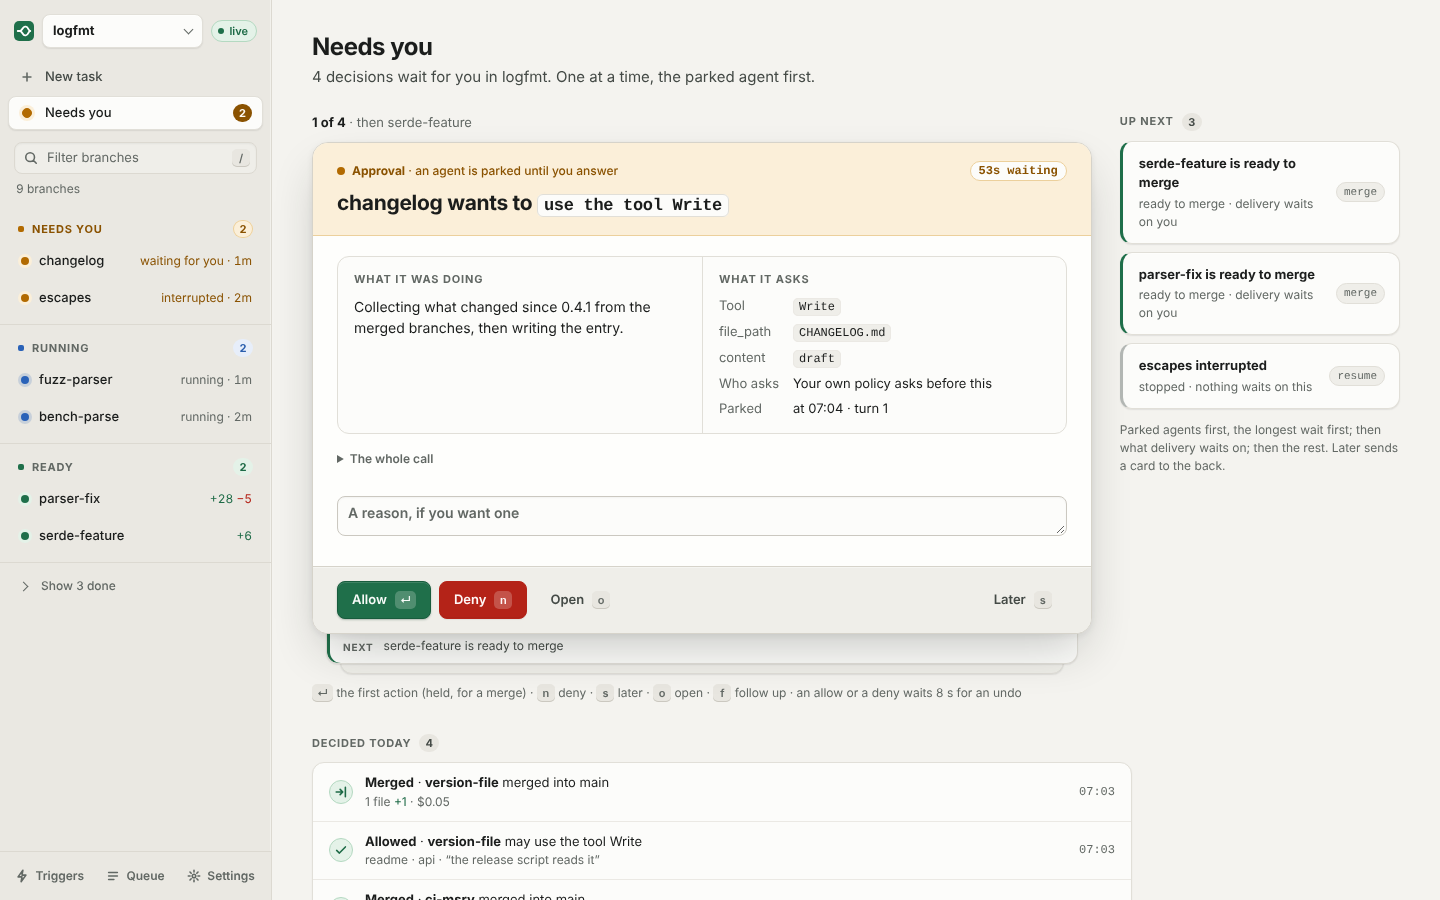
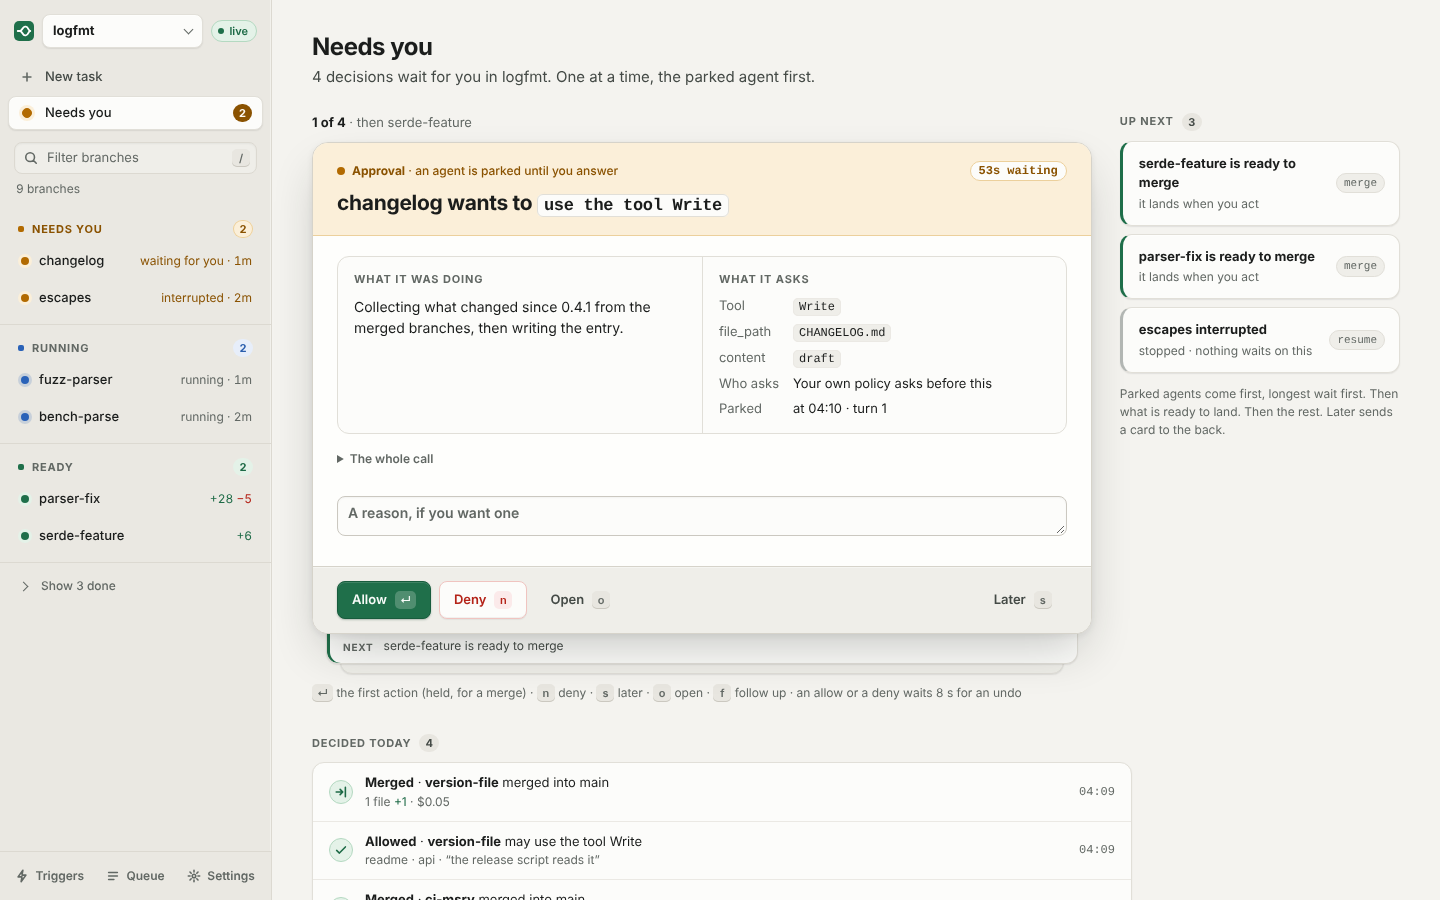
Polish the console's costs, deny button and decision copy
- A cost shows to the cent: $0.42, not $0.4200. A cost under a cent keeps
  four places.
- Deny is a quiet button with red text. Allow stays the one filled button.
- An Up next card for a ready branch no longer repeats "ready to merge"
  under its title. "Delivery waits on you" reads "it lands when you act".
- An earlier output reads "turn N · a later turn replaced it".
- The Spent tile's number matches the other tiles.

The companion, guided and workspace browser tests pass with the new strings,
and the README screenshots are regenerated with tools/readme_screenshots.

Claude-Session: https://claude.ai/code/session_013pzuDMdsgsaFc5nY3K5dKd

diff --git a/crates/branchyard-server/src/companion/assets/app.js b/crates/branchyard-server/src/companion/assets/app.js
@@ -454,8 +454,11 @@
   const workspaceLane = (w) => WORKSPACE_LANES.find((lane) => !lane.states || lane.states.includes(w.state));
   const workspaceStateText = (w) => ({ pending: 'starting' }[w.state] || w.state);
 
+  // Dollars to the cent; a cost under a cent keeps the digits that show it.
   function money(v) {
-    return v == null ? '—' : `$${Number(v).toFixed(v < 1 ? 4 : 2)}`;
+    if (v == null) return '—';
+    const n = Number(v);
+    return `$${n.toFixed(n > 0 && n < 0.01 ? 4 : 2)}`;
   }
   // Dollars to the cent, for a column of them.
   const cents = (v) => (v == null ? '—' : v > 0 && v < 0.005 ? '<$0.01' : `$${Number(v).toFixed(2)}`);
@@ -3680,7 +3683,7 @@
     accepted: { pick: false, tag: 'Accepted', note: (a) => `turn ${a.turn}` },
     current: { pick: true, tag: 'Current', note: (a) => `turn ${a.turn}` },
     working: { pick: false, note: (a) => `turn ${a.turn} · a newer turn is running` },
-    earlier: { pick: false, note: (a) => `Earlier turn ${a.turn} — not the current result` },
+    earlier: { pick: false, note: (a) => `turn ${a.turn} · a later turn replaced it` },
     unsettled: { pick: false, note: (a) => `turn ${a.turn} · this turn ended without its result` },
   };
 
@@ -4362,7 +4365,7 @@
       h('div', { class: 'row' },
         m.kind === 'escalation'
           ? [h('button', { type: 'button', class: 'primary', disabled, text: 'Approve', onclick: () => send('Approved.') }),
-            h('button', { type: 'button', class: 'danger', disabled, text: 'Deny', onclick: () => send('Denied.') })]
+            h('button', { type: 'button', class: 'deny', disabled, text: 'Deny', onclick: () => send('Denied.') })]
           : h('button', { type: 'button', class: 'primary', disabled, text: 'Answer', onclick: () => send(null) })),
       disabled ? h('p', { class: 'hint', text: 'This token lacks the run scope.' }) : null);
   }
@@ -4392,7 +4395,7 @@
       h('label', { class: 'block', for: id, text: 'Reason' }), area,
       h('div', { class: 'row' },
         h('button', { type: 'button', class: 'primary', disabled, text: 'Allow', onclick: () => send(true) }),
-        h('button', { type: 'button', class: 'danger', disabled, text: 'Deny', onclick: () => send(false) })),
+        h('button', { type: 'button', class: 'deny', disabled, text: 'Deny', onclick: () => send(false) })),
       disabled ? h('p', { class: 'hint', text: 'This token lacks the run scope.' }) : null);
   }
 
@@ -4413,7 +4416,7 @@
   const UNDO_MS = 8000;
   const HOLD_MS = 700;
   const decisionKey = (d) => `${d.kind}:${d.branch}:${d.approval ? d.approval.id : d.question ? d.question.id : d.output ? d.output.id : ''}`;
-  const WAITS = { agent: 'an agent is parked until you answer', delivery: 'delivery waits on you', nobody: 'nothing waits on this' };
+  const WAITS = { agent: 'an agent is parked until you answer', delivery: 'it lands when you act', nobody: 'nothing waits on this' };
   const KIND_LABEL = { approval: 'Approval', question: 'Question', merge: 'Ready to merge', stop: 'Stopped', stall: 'Silent', output: 'Delivered', session: 'Stopped' };
   const KIND_VERB = { approval: 'allow or deny', question: 'answer', merge: 'merge', stop: 'resume', stall: 'look', output: 'accept', session: 'open' };
   // Who a card is about: a branch, or a workspace's session.
@@ -4668,7 +4671,7 @@
       primary = () => holdAnswer(d, true, reason.value.trim());
       actions = [
         h('button', { type: 'button', class: 'primary', disabled, text: 'Allow', onclick: primary }, h('kbd', { text: '↵' })),
-        h('button', { type: 'button', class: 'danger', disabled, text: 'Deny', onclick: () => holdAnswer(d, false, reason.value.trim()) }, h('kbd', { text: 'n' })),
+        h('button', { type: 'button', class: 'deny', disabled, text: 'Deny', onclick: () => holdAnswer(d, false, reason.value.trim()) }, h('kbd', { text: 'n' })),
       ];
     } else if (d.kind === 'question') {
       const m = d.question;
@@ -4799,12 +4802,12 @@
       onclick: () => { state.deck.front = decisionKey(d); state.deck.later = state.deck.later.filter((k) => k !== decisionKey(d)); branchesChanged(); focusDeck(); },
     }, h('span', { class: 'bay-main' },
       h('b', { text: summaryOf(d) }),
-      h('span', { class: 'bay-meta', text: `${KIND_LABEL[d.kind].toLowerCase()} · ${d.since_ms ? (d.kind === 'output' ? `delivered ${since_(d.since_ms)} ago` : `parked ${since_(d.since_ms)}`) : WAITS[d.waits]}` })),
+      h('span', { class: 'bay-meta', text: `${d.kind === 'merge' ? '' : `${KIND_LABEL[d.kind].toLowerCase()} · `}${d.since_ms ? (d.kind === 'output' ? `delivered ${since_(d.since_ms)} ago` : `parked ${since_(d.since_ms)}`) : WAITS[d.waits]}` })),
     h('span', { class: 'bay-verb mono', text: KIND_VERB[d.kind] })));
     return h('aside', { class: 'deck-bay', 'aria-label': 'Up next' },
       held.length || next.length ? h('p', { class: 'deck-label bay-title' }, h('span', { text: 'Up next' }), next.length ? h('span', { class: 'lane-count', text: String(next.length) }) : null) : null,
       held, next,
-      next.length ? h('p', { class: 'bay-why muted', text: 'Parked agents first, the longest wait first; then what delivery waits on; then the rest. Later sends a card to the back.' }) : null);
+      next.length ? h('p', { class: 'bay-why muted', text: 'Parked agents come first, longest wait first. Then what is ready to land. Then the rest. Later sends a card to the back.' }) : null);
   }
 
   // What was decided today, newest first: approvals answered (here, in a

diff --git a/crates/branchyard-server/src/companion/assets/app.css b/crates/branchyard-server/src/companion/assets/app.css
@@ -221,6 +221,10 @@ button.primary, .button.primary { background: var(--green); border-color: var(--
 button.primary:hover, .button.primary:hover { background: var(--green-hover); border-color: var(--green-active); }
 button.primary:active, .button.primary:active { background: var(--green-active); }
 button.danger { background: var(--red); border-color: var(--red); color: var(--on-red); }
+/* Deny is a real answer, not the expected one: red words on a quiet button,
+   so the one filled button on a card is the action it suggests. */
+button.deny { color: var(--red); border-color: var(--red-line); }
+button.deny:hover:not(:disabled) { background: var(--red-tint); border-color: var(--red); color: var(--red); }
 button.ghost { background: transparent; border-color: transparent; color: var(--ink-2); box-shadow: none; }
 button.ghost:hover { background: var(--wash-2); border-color: transparent; }
 button:disabled, button:disabled:hover { opacity: .55; cursor: not-allowed; transform: none; box-shadow: none; }
@@ -1080,6 +1084,7 @@ details.request summary { color: var(--ink-3); font-size: 12px; font-weight: 600
 .deck-actions button kbd, .lever kbd { margin-left: 2px; }
 .deck-actions .primary kbd, .lever kbd { color: var(--on-green); background: rgba(255, 255, 252, .22); box-shadow: none; }
 .deck-actions .danger kbd { color: var(--on-red); background: rgba(255, 255, 252, .22); box-shadow: none; }
+.deck-actions .deny kbd { color: var(--red); background: var(--red-tint); box-shadow: none; }
 .deck-keys { font-size: 12px; }
 .lever { position: relative; overflow: hidden; min-width: 132px; }
 .lever::before { content: ""; position: absolute; inset: 0; background: var(--green-active); transform: scaleX(0); transform-origin: left; }
@@ -1178,7 +1183,7 @@ details.more details.ledger > summary { margin-top: 14px; }
 .tile-needs .tile-value { color: var(--amber-text); }
 .tile-running .tile-body { background: linear-gradient(var(--blue), var(--blue)) top / 100% 2px no-repeat, var(--surface-raised); }
 .tile-ready .tile-body { background: linear-gradient(var(--green), var(--green)) top / 100% 2px no-repeat, var(--surface-raised); }
-.tile-cost .tile-value { font-family: var(--mono); font-size: 24px; letter-spacing: -.02em; }
+
 .dot-cost { background: var(--ink-3); }
 .board {
   display: flex; flex-direction: column; background: var(--surface-raised); border: 1px solid var(--border-raised);

diff --git a/crates/branchyard-server/tests/console_workspace_browser.js b/crates/branchyard-server/tests/console_workspace_browser.js
@@ -788,7 +788,7 @@ let browser = null;
   await outputs.nth(9).waitFor(TURN);
   const earlier = byId(artifact[DOCX]);
   await page.waitForFunction((id) => document.querySelector(`#outputs-list li[data-artifact="${id}"]`).dataset.standing === 'earlier', artifact[DOCX]);
-  if (!(await earlier.locator('.item-meta').innerText()).endsWith('Earlier turn 1 — not the current result')) throw new Error(`the earlier DOCX says ${await earlier.locator('.item-meta').innerText()}`);
+  if (!(await earlier.locator('.item-meta').innerText()).endsWith('turn 1 · a later turn replaced it')) throw new Error(`the earlier DOCX says ${await earlier.locator('.item-meta').innerText()}`);
   const earlierBox = earlier.getByRole('checkbox');
   if (!(await earlierBox.isDisabled()) || await earlierBox.isChecked()) throw new Error('an earlier turn\'s output can still be selected');
   if (await strip.locator('#accept').count()) throw new Error('Accept is still offered for an earlier turn\'s output');

diff --git a/crates/branchyard-server/tests/companion_browser.js b/crates/branchyard-server/tests/companion_browser.js
@@ -258,10 +258,10 @@ const shots = process.env.BY_SCREENSHOTS;
   await nextLine();
   await go('#/b/app/costly');
   const receipts = page.locator('#convo .turn .outcome');
-  await receipts.filter({ hasText: '$0.2500' }).waitFor({ timeout: 60000 });
-  await receipts.filter({ hasText: '$0.5000' }).waitFor({ timeout: 60000 });
-  if (await receipts.filter({ hasText: '$0.7500' }).count()) throw new Error('a receipt shows the session total, not its turn');
-  await page.locator('.strip-meta', { hasText: '$0.7500' }).waitFor();
+  await receipts.filter({ hasText: '$0.25' }).waitFor({ timeout: 60000 });
+  await receipts.filter({ hasText: '$0.50' }).waitFor({ timeout: 60000 });
+  if (await receipts.filter({ hasText: '$0.75' }).count()) throw new Error('a receipt shows the session total, not its turn');
+  await page.locator('.strip-meta', { hasText: '$0.75' }).waitFor();
   say('COSTED');
 
   // A turn parked on an approval: the branch itself says so on the board

diff --git a/docs/companion.md b/docs/companion.md
@@ -157,7 +157,7 @@ A workspace uses the same three panes as a branch:
 - **Environments and readiness.** The environments are exactly the server's list, `GET /v1/execution-presets?workspace=` ([execution presets](server.md#execution-presets)). On a server with no presets configured, the one environment is "This server", and a start there sends no `preset`, as before, so coding projects start sessions unchanged. On a server that requires presets, every start names one. Each readiness row gives the state in words (Ready, Not ready or Unknown), where it was measured ("checked on this server", which may not be the worker that runs the session, or "in the environment itself"), how long ago, the server's reason and, when there is one, what an operator can do. The dot repeats the state in colour. An environment has a row for itself and, for Substrate, one for reachability. The chosen harness has rows for its executable, its sign-in, and whether the environment supplies its key. Readiness disables nothing: a Substrate environment whose bridge key this server cannot read still starts a session, because the worker that runs it may hold its own copy of the key. Without one, the session fails and shows why.
 - **The conversation** shows the session's messages (`…/messages?after=`, page by page), joined into turns as a branch's are. The message box sends a follow-up, steers a running turn, or resumes an interrupted one (`POST …/messages` with `action` set to `send`, `steer` or `resume`). An empty Resume sends the prompt `by watch`'s `R` sends. A session that is still starting, did not start, or was started by another subject says so in the box's placeholder. Each message shows what the person sent: the server keeps the input-index sentence, a reviewer's preface and the requested-result instructions it adds to the harness input out of the messages it returns, and repeats the requested-result instructions on each follow-up and resume of a session with a result contract ([workspace management](workspace-management.md)). A session that did not start or failed shows the server's error, what to do next, and **Try again**. A session in a remote environment that cannot be reached fails; it never runs on this server instead. **Try again** opens the form with that session's name (with "(again)"), first prompt, sources, environment, harness, model and access, so you can pick another environment and start.
 - **Sources** uploads one or several files, from the button or dropped on the panel, one at a time: each upload names the workspace's current revision in `X-Workspace-Revision` and its file name, exactly as written, in `X-Source-Title-Encoded` (RFC 8187, with an ASCII copy in `X-Source-Title`), so the list and the preview show that name. A name over the server's 512 bytes keeps its extension and loses the end of the rest. A format the console has no short name for shows the file's extension, such as RTF. A file the server refuses (too large, say) is named and the others still upload. The list downloads each original (`…/sources/{id}/content`), and clicking a source's name previews it below the list.
-- **Outputs** lists the workspace's artifacts under the session that made them, newest turn first, with their format, size and turn. The server accepts an output only from its session's current turn, once that turn finished with its result, so only those are marked **Current** and can be ticked. An older one says "Earlier turn N — not the current result", and while a session runs a newer turn its outputs wait; both still preview and download. Ticking outputs offers **Accept N selected** (`POST …/finalize` with the revision and the IDs, confirmed first). Accepted outputs are marked and cannot be ticked again. When the server refuses an acceptance with `409 deliverable_not_current` or `409 producer_busy`, the page reads the workspace and its outputs again, says which of the two happened and asks you to accept the outputs marked Current.
+- **Outputs** lists the workspace's artifacts under the session that made them, newest turn first, with their format, size and turn. The server accepts an output only from its session's current turn, once that turn finished with its result, so only those are marked **Current** and can be ticked. An older one says "turn N · a later turn replaced it", and while a session runs a newer turn its outputs wait; both still preview and download. Ticking outputs offers **Accept N selected** (`POST …/finalize` with the revision and the IDs, confirmed first). Accepted outputs are marked and cannot be ticked again. When the server refuses an acceptance with `409 deliverable_not_current` or `409 producer_busy`, the page reads the workspace and its outputs again, says which of the two happened and asks you to accept the outputs marked Current.
 - **Previews.** **Open** beside a preview opens a full-width document viewer at
   `#/w/<workspace>/doc/<artifact>` (sources use `doc/source:<source>`). DOCX pages
   stack and load as you scroll; slides have thumbnails, arrow keys and
